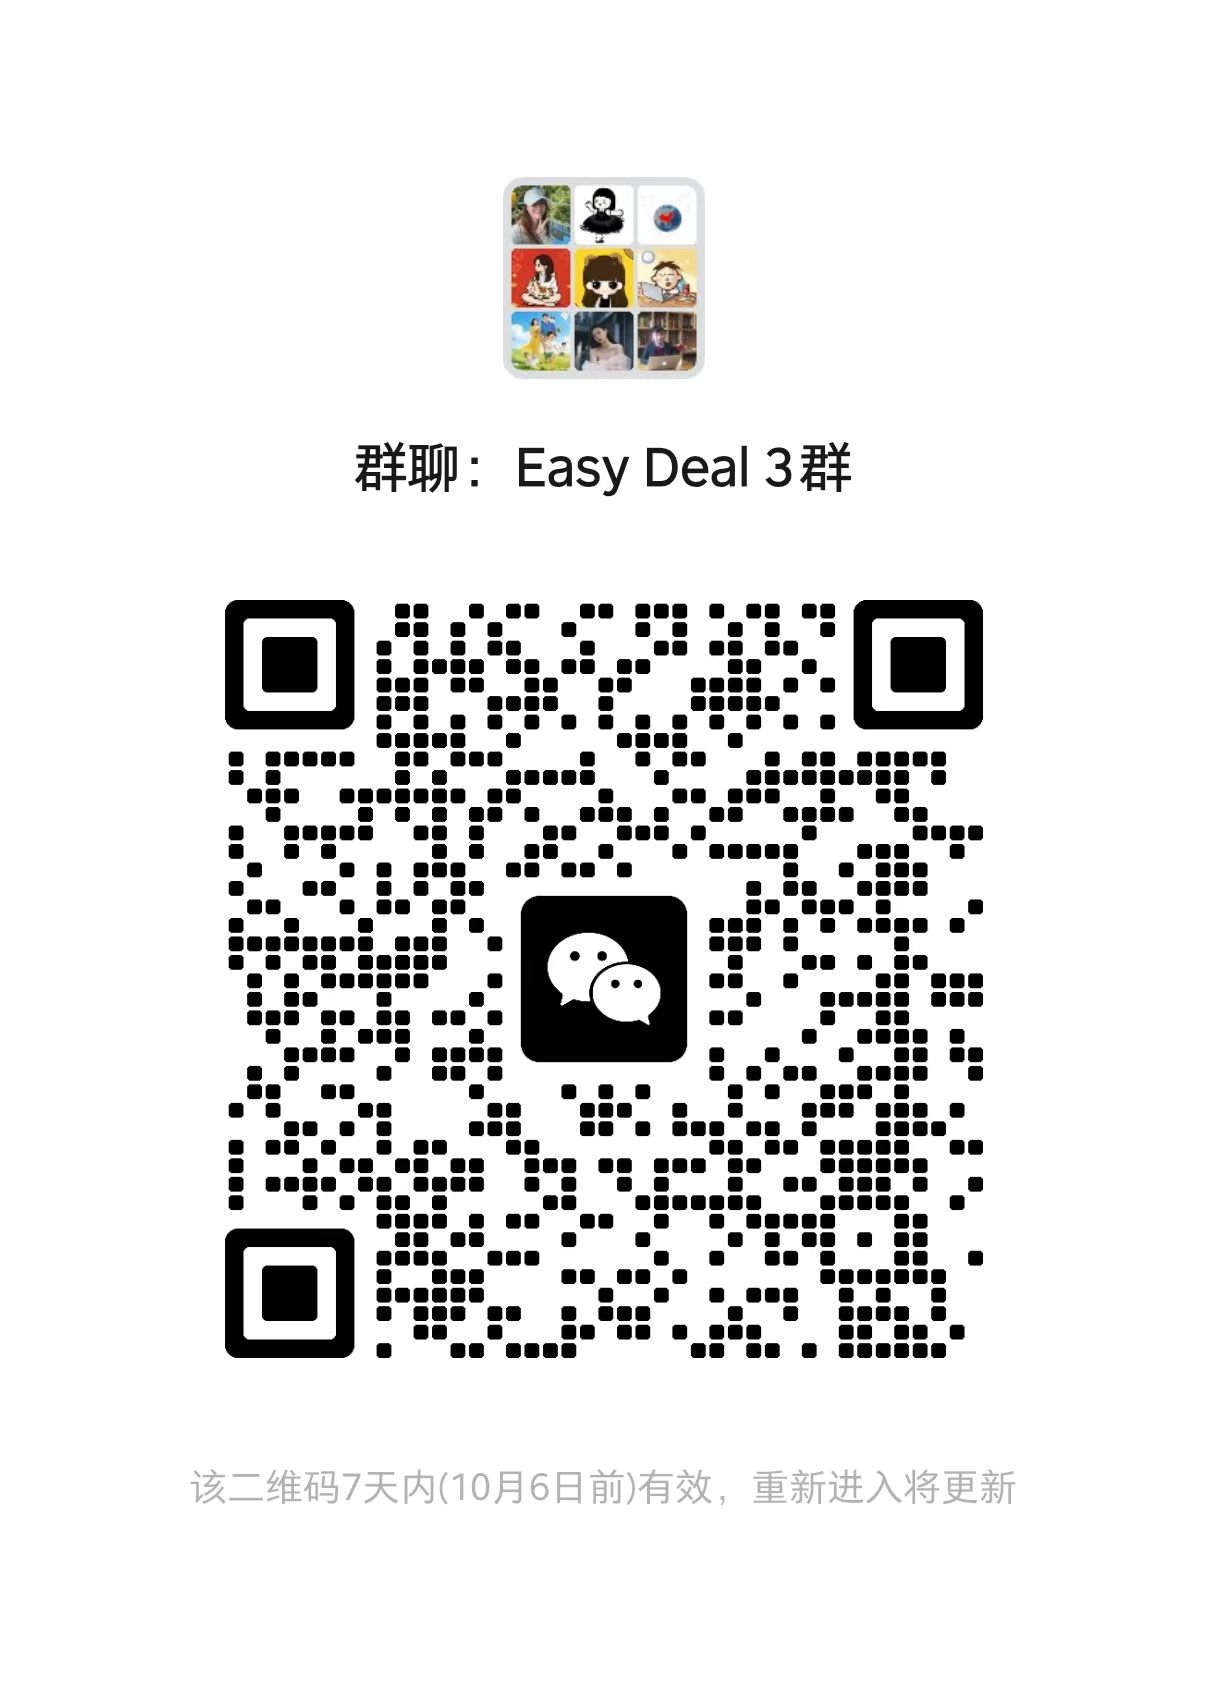
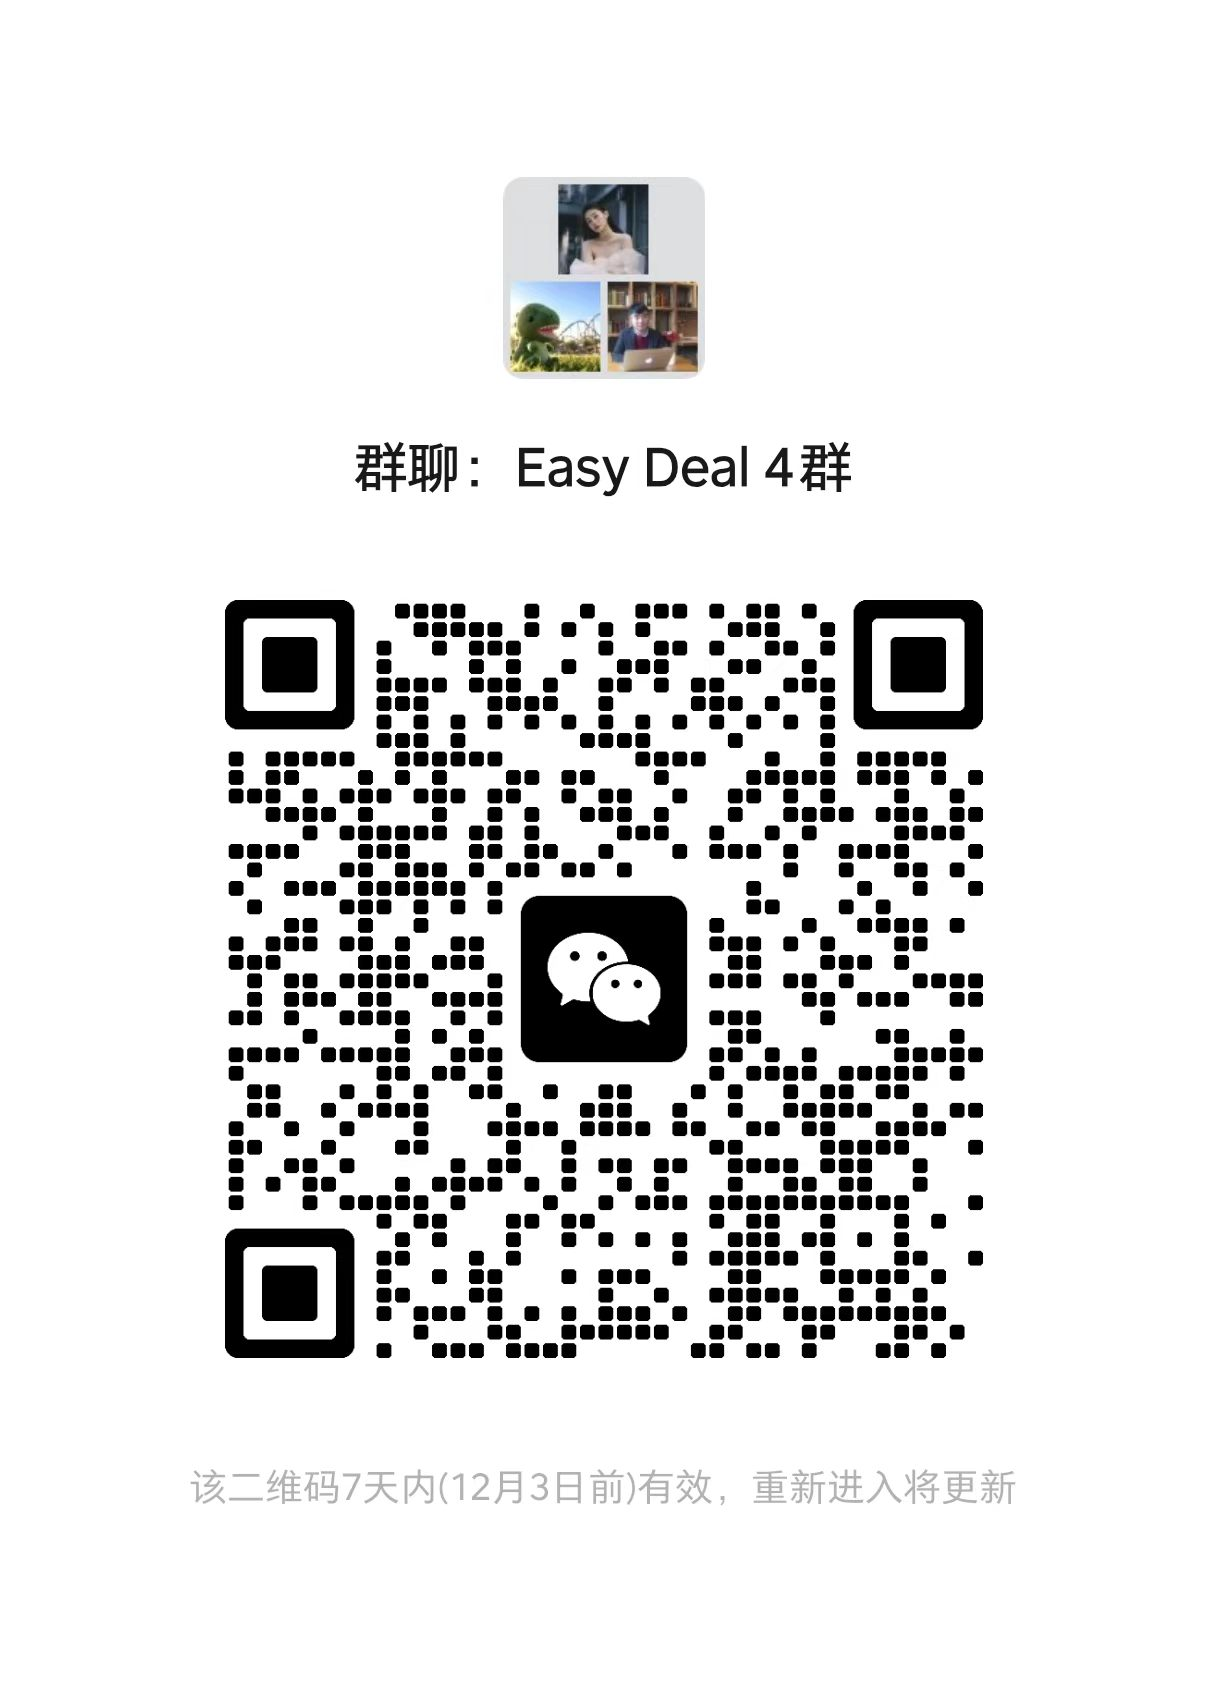
docs: refresh community entry and group QR
Update the Easy Deal 4 group QR and keep the Gitee landing page focused on GitHub migration without duplicating the signup guide.

diff --git a/src/views/strategies-view.js b/src/views/strategies-view.js
@@ -797,7 +797,6 @@ function renderList(host, items, unread, refresh) {
           ${it.has_source && it.has_compiled ? `<span class="tag ok" title="同时拥有源码 + 编译产物">源码+ex5</span>` : ''}
           ${it.has_source && it.ex5_stale ? `<span class="tag" style="color:var(--warn);border-color:rgba(245,158,11,0.3);" title="源码 .mq5 比已编译的 .ex5 新 —— 你(或 AI)改了源码还没重新编译。点「挂载」会用新源码重新编译再部署。">⚠ 源码已改·挂载将重编</span>` : ''}
           ${it.hash_match === false ? `<span class="tag" style="color:var(--warn);border-color:rgba(245,158,11,0.3);" title="工作区 .ex5 (${(it.ex5_sha256||'').slice(0,12)}…) 与 MT5/Experts (${(it.mt5_ex5_sha256||'').slice(0,12)}…) 不一致 — 通常是 AI 改完源码 + 编译完但还没同步到 MT5/Experts/，运行中的 EA 还是旧版本.\n用右侧「挂载」按钮重新部署, 或跟 AI 说让它跑「同步 → 重启 MT5 → 重挂 EA」流程.">代码已重新编译，请重新挂载</span>` : ''}
-" data-name="${escape(it.name)}" title="已上架到策略商城（id=${listing.id}, ${escape(listing.status)}）—— 点击查看订单 / 下架">已上架（点击管理）</span>` : ''}
           ${(() => {
             // 0.3.189 Phase 2 chip → 0.3.208 native <select> 下拉.
             // 用户反馈「做个下拉选择绑定实例」比 popup picker 更直觉.

diff --git a/README.md b/README.md
@@ -1,16 +1,12 @@
-# EasyDeal 社区版 · 让 AI 帮你看懂并值守 MT5 交易
+# EasyDeal 已迁移到 GitHub
 
-就算有一套完全自动赚钱的工具，你也会经常盯着它。你跟专业交易员对比，差别在于是否看得懂。EasyDeal 就是解决这个问题的桌面客户端：它把 AI 接到你本机的 MT5，帮你监控策略执行、解答问题、在异常时提醒你，甚至帮你修改策略代码。
+**新地址：https://github.com/xszyou/Easy-Deal**
 
-社区版是免费开源的**单机版**：不需要序列号，交易数据只留在你的电脑上。
+EasyDeal 社区版是免费开源的单机桌面客户端：把 AI 接到你本机的 MT5，帮你监控策略执行、解答问题、在异常时提醒你。安装后自带 GMarket v1.082 策略。
 
-> **交易风险提示：** 外汇和贵金属保证金交易风险很高。内置的 GMarket 策略包含对冲和马丁加仓逻辑，可能在剧烈波动、点差扩大、流动性不足或连续不利行情中产生快速且显著的亏损。请先在模拟账户和策略测试器中验证，并自行设置手数、最大亏损、周盈亏限制，只投入能承受损失的资金。本项目不构成投资建议，也不保证收益。
+源代码、安装包（Releases）、使用教程和问题反馈都已迁到 GitHub，本仓库不再更新。
 
-## 下载安装
-
-到 [Releases](https://github.com/xszyou/Easy-Deal/releases) 下载最新的 `EasyDeal-Community-x.y.z-x64-setup.exe`，双击安装即可。安装包已内置 Python 运行时和 Claude Code，不需要另外配置环境。
-
-系统要求：Windows 10 / 11（64 位），本机已安装 MT5。
+> 访问 GitHub 较慢时，安装包也可以在交流群里获取。
 
 ## 联系我们
 
@@ -22,100 +18,4 @@
 
 ![知识星球二维码](images/zsxq.jpg)
 
-## 功能
-
-| 标签页 | 说明 |
-|---|---|
-| AI | 全局会话和每个策略的专属会话；支持附件和截图，AI 会记下每个策略的经验笔记 |
-| MT5 | 管理多个 MT5 实例：发现、启动、停止和身份校验 |
-| 策略 | 策略列表、本地成绩单、参数与热参数、挂载和卸载、编译、依赖指标、复制策略 |
-| 护航 | 给 EA 上一层风控：监控模式无需改 EA 源码；拦截模式可挡高风险的开仓、改单和平仓；可结合快讯和经济日历审批马丁加仓（实验性功能） |
-| 监控 | 定时 AI 巡检，一个任务可绑定多个策略，策略停跑时自动跳过 |
-| 教程、资讯 | 视频教程、金十快讯、经济日历和散户情绪 |
-| Skills | MCP 工具清单、本机 Claude Skills、帮助文档 |
-| Token | 选择 AI 通道：本机 Claude 登录、自定义端点（Anthropic 或 OpenAI 协议）、Codex |
-
-安装后自带 **GMarket v1.082**（编译后的 `.ex5` 和策略说明），在「策略」页点「挂载」即可装进 MT5。
-
-内置知识库里自带 [用户手册](docs/用户手册.md) 和 [《ML4T 中文导读》](docs/ML4T中文导读.md)（Stefan Jansen《Machine Learning for Trading》第 3 版的通俗导读），AI 回答使用问题和量化研究方法问题时会参考它们。AI 可用的下单工具（开仓、平仓、改单）默认关闭，需要在设置里手动打开。
-
-**还没有 AI 模型？** 在「Token」页点「查看火山引擎注册指引」，按指引开通后把 API Key 填进「自定义端点」。指引中的注册链接带有开发者的推荐码，通过它注册购买，开发者会获得推荐奖励，你的价格不受影响。
-
-📖 **完整的使用说明见 [用户手册](docs/用户手册.md)**：每个页面怎么用、怎么做策略、怎么配护航和定时巡查、常见问题和已知问题。
-
----
-
-# 一、交易账号注册与 MT5 安装
-
-- 访问 exness 官网（需要开启 VPN，VPN 不能使用美国、伊朗、朝鲜、欧盟、英国）：https://one.exnessonelink.com/a/r6fx3vgje1
-
-- 点击右上角登录 --> 开立账户 --> 注册 --> 个人专区
-
-  - ![image-20251201164439332](images/image-20251201164439332.png)
-
-- 我的账户 --> 模拟 --> 交易 --> Meta Trader 5（此处保存好交易账号信息及服务器信息）--> 下载安装 MT5 平台 --> 运行 exness5setup.exe --> 等待安装完成
-
-  - ![image-20251201164751516](images/image-20251201164751516.png)
-  - ![image-20251201165907714](images/image-20251201165907714.png)
-
-- 运行 MT5 终端 --> 关闭开设账户弹窗 --> 导航栏 --> exness --> 账户 -- 右键 --> 登录到交易账户（注意，此处填写的登录名为上文选择 mt5 交易时记录的那串数字账号，服务器也需注意选择正确）
-
-开户链接带有开发者的推荐码。请确认你所在地区允许参与外汇和贵金属保证金交易。
-
----
-
-# 二、MT5 开启算法交易
-
-![MT5开启算法交易 封面](<images/course1/cover.png>)
-
-EA 要在 MT5 里自动下单，必须先开启算法交易。
-
-## 打开交易窗口
-
-![讲义](<images/course1/section-04-01.png>)
-
-右键点击交易品种“XAUUSD”，选择“图表窗口”，即打开了如图所示图表。
-
-## 开启算法交易
-
-![讲义](<images/course1/section-05-01.png>)
-
-把 EA 附加到图表时请勾选允许算法交易，并点击 MT5 上方的算法交易按钮。成功后可以看到策略窗口。非交易日没有行情报价时 EA 不会运作，附加后等待交易时间即可。
-
-## 不用客户端，只跑 EA
-
-![讲义](<images/course1/section-03-01.png>)
-
-`bundled-eas/GMarket.ex5` 也可以单独使用：点击 MT5 菜单栏的“文件”→“打开数据文件夹”，打开 `MQL5\Experts`，复制 `GMarket.ex5` 后返回 MT5 导航栏刷新专家列表，再按上面的步骤附加到图表。策略说明见 [`bundled-eas/GMarket.md`](bundled-eas/GMarket.md)。
-
----
-
-# 三、客户端快速上手
-
-1. 到 [Releases](https://github.com/xszyou/Easy-Deal/releases) 下载安装包并安装。
-2. 打开「Token」页选择 AI 通道。已经登录过 Claude Code 的直接用「系统」；否则按「购买 Token」卡片的指引开通火山引擎，填进「自定义端点」。
-3. 打开「MT5」页点「+ 添加实例」，选择 MT5 的程序目录和数据目录。还没有交易账户的，切到「还没有交易账户？」按步骤开户。
-4. 打开「策略」页，找到内置的 GMarket，选好 MT5 实例后点「挂载」，再按第二节开启算法交易。
-5. 回到「AI」页，问它“帮我看看 GMarket 现在运行得怎么样”。也可以在「设置 → 关于」点「AI 指引配置」，让 AI 一步步带你配置。
-
-更多玩法（让 AI 写策略、给 EA 上护航、设定时巡查）见 [用户手册](docs/用户手册.md)。
-
----
-
-# 四、从源码运行和打包
-
-需要 Windows 10/11、Node.js 20+、Python 3.11+：
-
-```bash
-npm install
-pip install -r python/requirements.txt
-npm start
-```
-
-打包安装程序前，先运行 `scripts/setup-python-runtime.ps1` 生成内置的 Python 运行时，再运行 `npm run dist:win`。
-
----
-
-# 许可证
-
-源代码以 [GPL-3.0](LICENSE) 发布。`bundled-eas/GMarket.ex5` 是编译后的策略文件，不附带源码。
+> **交易风险提示：** 外汇和贵金属保证金交易风险很高。GMarket 策略包含对冲和马丁加仓逻辑，可能快速且显著地亏损。请先在模拟账户验证，只投入能承受损失的资金。本项目不构成投资建议，也不保证收益。
